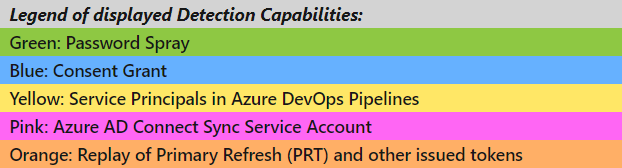
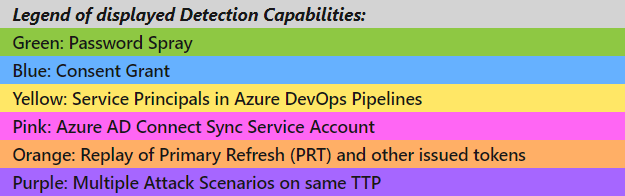
Updated visualization of attack scenarios

diff --git a/media/mitre/AttackScenarios/colors.md b/media/mitre/AttackScenarios/colors.md
@@ -1,8 +1,9 @@
 <div style="width:500px"> 
 <div style="padding-left:10px;border-style:solid;border-color:black;border:0.1px;font-weight:500;background-color:#D3D3D3;font-style:italic;font-weight: 700">Legend of displayed Detection Capabilities:</div>
-<div style="padding-left:10px;border-style:solid;border-color:black;border:0.1px;font-weight:500;background-color:#D3D3D3;background-color:#8ec843">Green: Password Spray</div>
-<div style="padding-left:10px;border-style:solid;border-color:black;border:0.1px;font-weight:500;background-color:#D3D3D3;background-color:#66b1ff">Blue: Consent Grant</div>
-<div style="padding-left:10px;border-style:solid;border-color:black;border:0.1px;font-weight:500;background-color:#D3D3D3;background-color:#ffe766">Yellow: Service Principals in Azure DevOps Pipelines</div>
-<div style="padding-left:10px;border-style:solid;border-color:black;border:0.1px;font-weight:500;background-color:#D3D3D3;background-color:#ff66f4">Pink: Azure AD Connect Sync Service Account</div>
-<div style="padding-left:10px;border-style:solid;border-color:black;border:0.1px;font-weight:500;background-color:#D3D3D3;background-color:#ffaf66">Orange: Replay of Primary Refresh (PRT) and other issued tokens</div>
+<div style="padding-left:10px;border-style:solid;border-color:black;border:0.1px;font-weight:500;background-color:#8ec843">Green: Password Spray</div>
+<div style="padding-left:10px;border-style:solid;border-color:black;border:0.1px;font-weight:500;background-color:#66b1ff">Blue: Consent Grant</div>
+<div style="padding-left:10px;border-style:solid;border-color:black;border:0.1px;font-weight:500;background-color:#ffe766">Yellow: Service Principals in Azure DevOps Pipelines</div>
+<div style="padding-left:10px;border-style:solid;border-color:black;border:0.1px;font-weight:500;background-color:#ff66f4">Pink: Azure AD Connect Sync Service Account</div>
+<div style="padding-left:10px;border-style:solid;border-color:black;border:0.1px;font-weight:500;background-color:#ffaf66">Orange: Replay of Primary Refresh (PRT) and other issued tokens</div>
+<div style="padding-left:10px;border-style:solid;border-color:black;border:0.1px;font-weight:500;background-color:#a666ff">Purple: Multiple Attack Scenarios on same TTP</div>
 </div>
